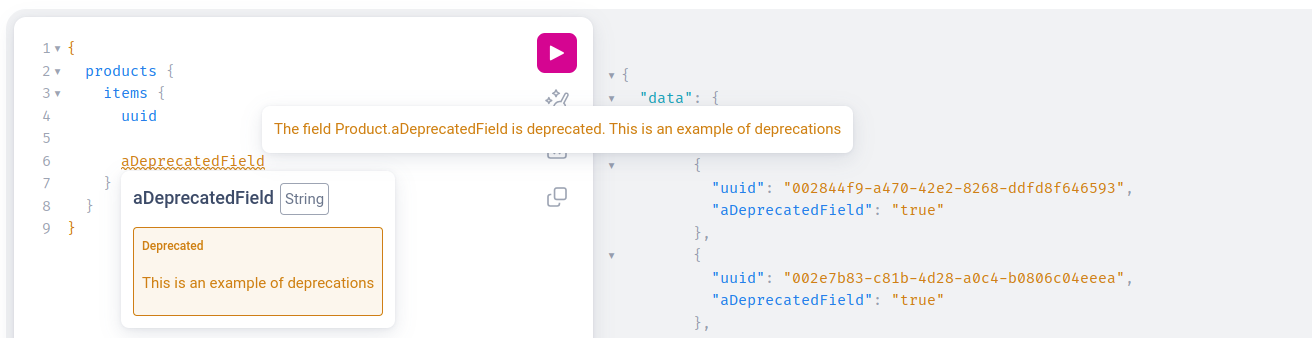
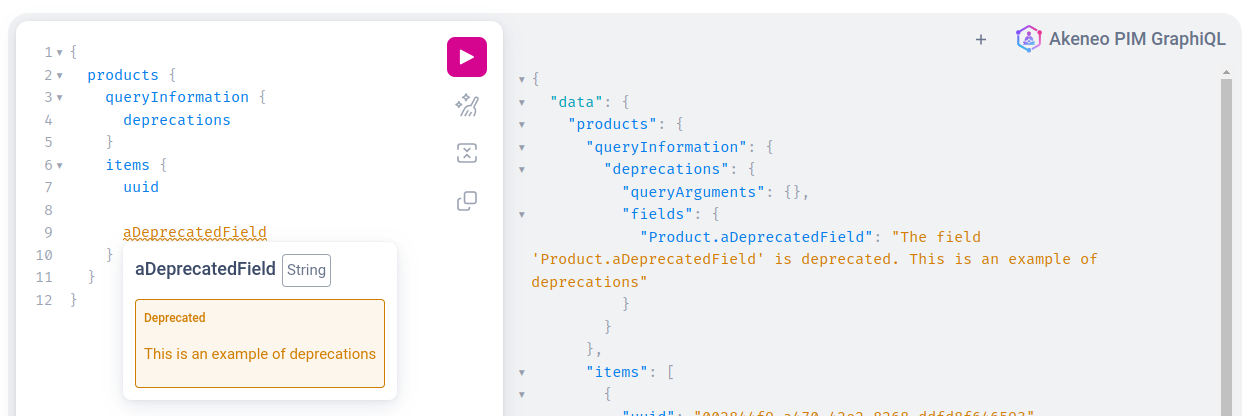
[CHA-381] Update doc

diff --git a/content/graphql/setup/limitations.md b/content/graphql/setup/limitations.md
@@ -1,19 +1,25 @@
 # Limitations
 
-**GraphQL API** offer great flexibility by allowing clients to request precisely the data they need. 
-However, certain limitations are in place to ensure optimal performance. 
-By setting boundaries, we avoid complex or large queries that could potentially slow down the system. 
-This is a balancing act between flexibility and performance.
+**GraphQL API** offer great flexibility by allowing clients to request precisely the data they need.
+
+However, **certain limitations** are in place to ensure optimal performance.
+
+By setting boundaries, we avoid complex or large queries that could potentially slow down the system.
+
+**This is a balancing act between flexibility and performance.**
 
 ## Rate limiting
 
 :::warning
-Understanding that the limitations are not static and will adapt over time-based on usage and requirements is vital. 
+Understanding **that the limitations are not static and will adapt over time-based on usage and requirements is vital**. 
+
 With the **GraphQL API** being a recent addition to Akeneo, our priority is to ensure the stability of the PIM by carefully assessing all risks. 
-If you encounter any challenges with the rate limits, please don't hesitate to reach out by opening a support ticket. 
+
+If you encounter any **challenges** with the `rate limits`, please don't hesitate to reach out by opening a support ticket.
+
 Your insights are invaluable in fine-tuning our system for optimal performance.
 :::
-The **GraphQL API** is limited to **two queries per second** per **PIM URL.**
+The **GraphQL API** is limited to `2req/s` **two queries per second** per **PIM URL.**
 
 ## Query complexity limitations
 
@@ -21,41 +27,89 @@ Each query will have a cost complexity depending on the requested data.
 A detailed explanation can be found on [Complexity calculation](/graphql/setup/complexity.html).
 
 ## Nested limitations
+A query depth is how much level of data you have.
+For example, you can make the following query
 
-Maximum query depth is limited to **6**.
-:::warning
-Remember that every time you open a bracket, the level of depth increases. 
-This is an important tip to keep in mind.
-:::
-In this example, you have opened eight brackets, meaning that your query's depth level is 8. You will not be able to make the call.
-
-```graphql [snippet:GraphQL]
+```graphql [snippet:Query with too much depth]
 
 {
-  products {
-    items {
-      simpleAssociations {
-        products {
-          uuid
-          parent {
-            simpleAssociations {
-              products {
-                uuid
-              }
+    products {
+        items {
+            uuid
+            categories {
+                code
             }
-          }
+            simpleAssociations {
+                type
+                products {
+                    uuid
+                    parent {
+                        code
+                        categories {
+                            code
+                        }
+                    }
+                }
+            }
         }
-      }
     }
-  }
+}
+```
+```json [snippet:Error]
+
+{
+    "errors": [
+        {
+          "message": "Depth Error: Query depth limit of 6 for query: [products] exceeded, found 7."
+        }
+    ]
 }
 ```
 
+**Maximum query depth** is set as follows for each GraphQL Query.
+
+| Query                    | Max Depth |
+|--------------------------|-----------|
+| assetFamilies            | 4         |
+| assetsRecords            | 3         |
+| attributeOptions         | 3         |
+| attributes               | 4         |
+| categories               | 4         |
+| channels                 | 4         |
+| currencies               | 3         |
+| families                 | 5         |
+| locales                  | 3         |
+| measurementFamilies      | 4         |
+| productModels            | 6         |
+| products                 | 6         |
+| referenceEntities        | 4         |
+| referenceEntitiesRecords | 3         |
+| systemInformation        | 3         |
+| token                    | 3         |
+
+:::info
+Remember that every time you open a bracket, the level of depth increases. 
+This is an important tip to keep in mind.
+:::
+
+:::warning
+Understanding **that the limitations are not static and will adapt over time-based on usage and requirements is vital**.
+
+With the **GraphQL API** being a recent addition to Akeneo, our priority is to ensure the stability of the PIM by carefully assessing all risks.
+
+If you encounter any **challenges** with the `depth limit`, please don't hesitate to reach out by opening a support ticket.
+
+Your insights are invaluable in fine-tuning our system for optimal performance.
+:::
+
+
 ## One-query limitation
+By default, GraphQL allow to execute several queries by one call.
+This is disabled and `only one query will be allowed at once`.
 
-You can't make multiple queries in one call so the following example will fail.
+You will get an error as following when executing multiple queries in one call.
 
-```graphql [snippet:GraphQL]
+```graphql [snippet:Two queries in one call]
 
 {
   products {
@@ -68,5 +122,15 @@ You can't make multiple queries in one call so the following example will fail.
       code
     }
   }
+}
+```
+```json [snippet:Error]
+
+{
+    "errors": [
+        {
+        "message": "Operation Error: Only one selection is allowed at once, found 2"
+        }
+    ]
 }
 ```

diff --git a/content/graphql/setup/best-practices.md b/content/graphql/setup/best-practices.md
@@ -122,15 +122,16 @@ On the GraphiQL ui deprecated fields will appear in orange with an underline and
 
 On queries, you have several ways to get this information.
 - The `queryInformation` field holds a `deprecations` field that contains all the deprecated arguments and fields for this particular query.
-- Query logs also have three entries to expose deprecation information: deprecations, deprecations_keys, deprecations_count.
-- To finish the `deprecations_count` value is also added to the response header under `X-DEPRECATION-NUMBER`.
+- **GraphiQL** show deprecations in `orange` with more informations in hover
+- A response header `x-deprecations-count` is also added
 
 In **GraphiQL** the `deprecations` will be displayed as following:
 
 ![Deprecations In GraphiQL](../../img/graphql/deprecations-in-graphiql.png)
 
 The deprecations count can also be found as a header in the response
-```
+```bash
+
 HTTP/1.1 200 OK
 content-type: application/json; charset=utf-8
 content-length: 773
